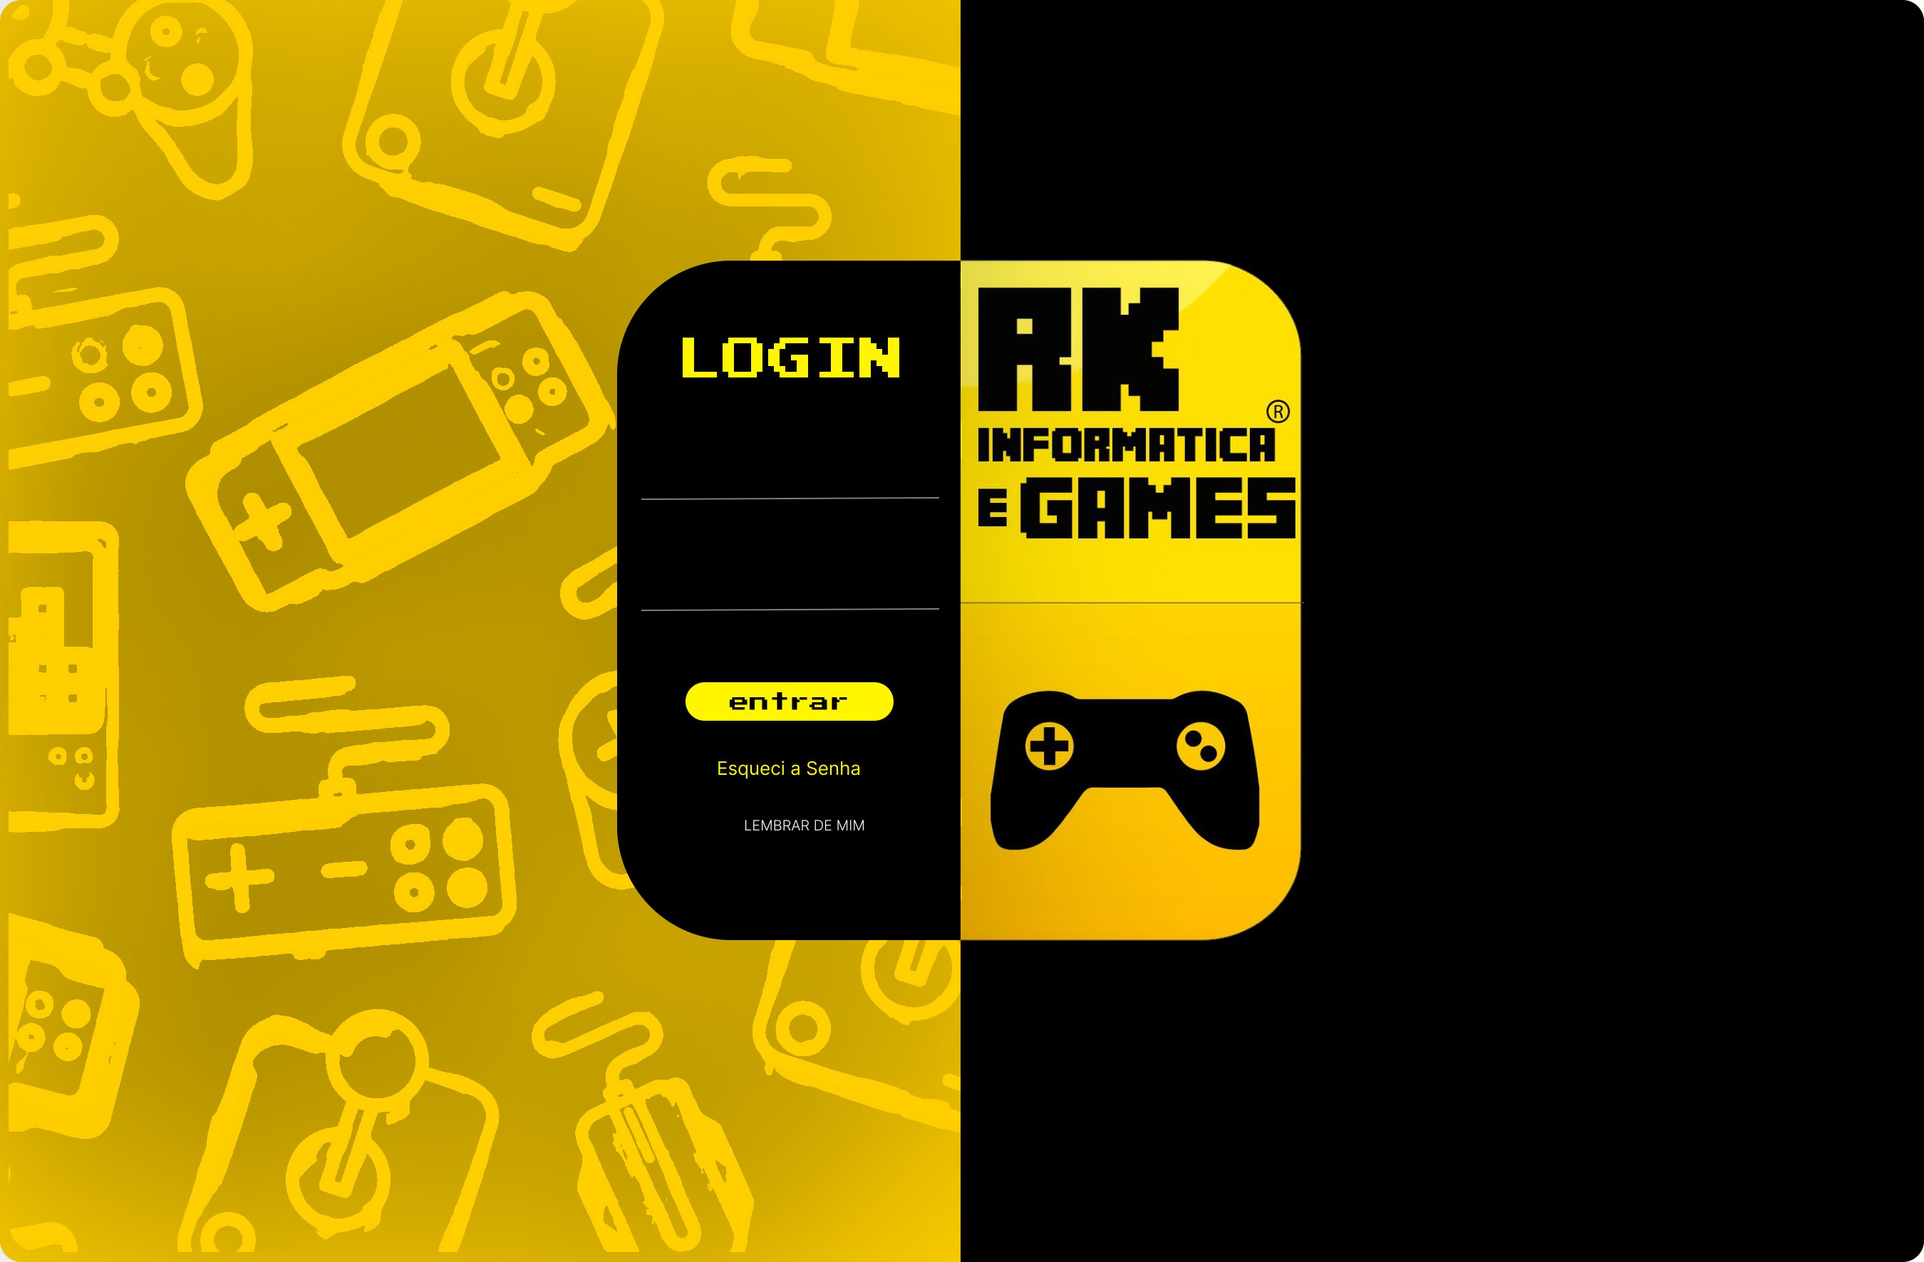
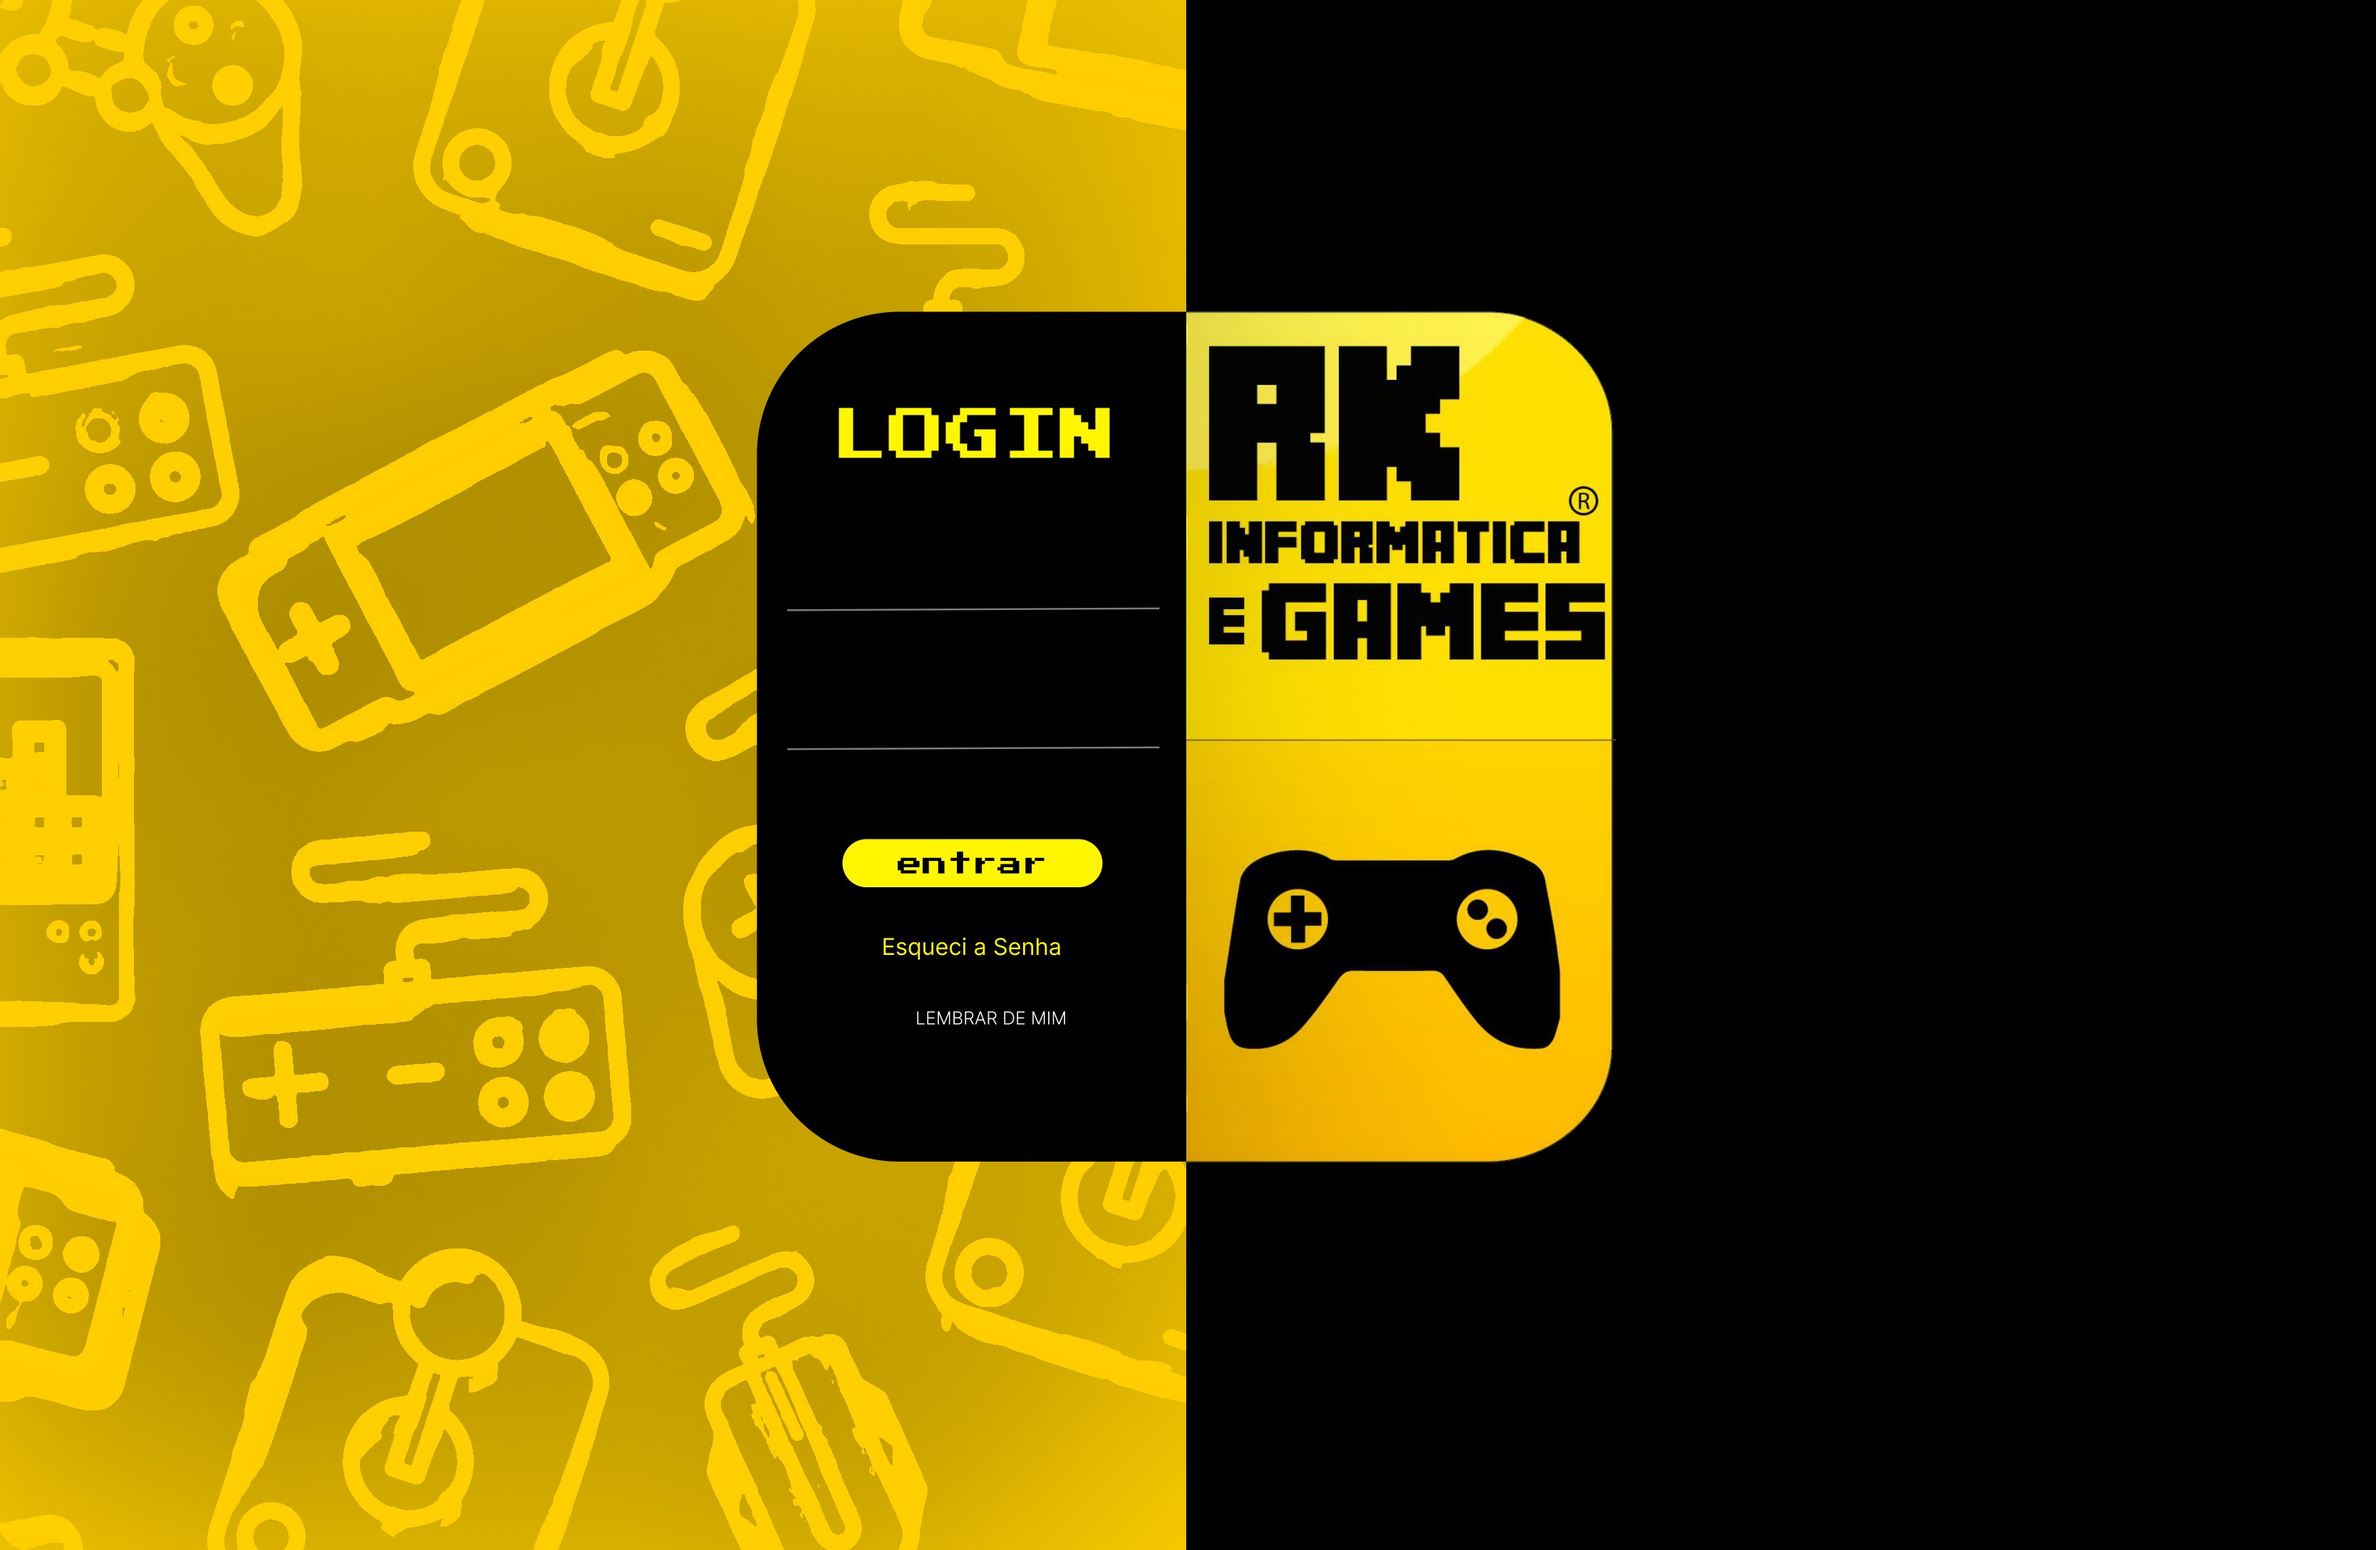
Login em tela cheia e layout proporcional ao Figma

diff --git a/src/pages/login/LoginPage.css b/src/pages/login/LoginPage.css
@@ -1,49 +1,36 @@
 /*
- * Coordenadas em pixels do quadro de login do Figma (1350 x 886).
- * --ox/--oy/--w definem o recorte visível; --u converte 1px do Figma para o tamanho atual da tela.
+ * A arte do Figma (padrão amarelo à esquerda, preto à direita) cobre a tela inteira.
+ * --u converte 1px do Figma para o tamanho atual: a arte é ampliada até cobrir a tela,
+ * mas limitada para que o cartão de login (≈ 500px do Figma) sempre caiba.
+ * Os elementos são posicionados a partir do centro da arte (675, 443 nas medidas do Figma).
  */
 .rk-login {
-  display: flex;
-  align-items: center;
-  justify-content: center;
-  min-height: 100vh;
-  padding: 16px;
-  background: var(--rk-white);
-}
-
-.rk-login__frame {
-  --ox: 0;
-  --oy: 0;
-  --w: 1350;
-  --h: 886;
-  --u: calc(100cqw / var(--w));
-  container-type: inline-size;
-  position: relative;
-  width: min(1350px, 100%, calc((100vh - 32px) * 1350 / 886));
-  aspect-ratio: 1350 / 886;
+  --u: min(max(100vw / 1334, 100vh / 870), 100vw / 520, 100vh / 520);
+  position: fixed;
+  inset: 0;
   overflow: hidden;
-  border-radius: 12px;
-  background: var(--rk-black);
-  box-shadow: 0 30px 90px rgba(0, 0, 0, 0.25);
+  /* Continuação das duas metades caso a arte não cubra tudo (celular em pé). */
+  background: linear-gradient(to right, #d6ad00 50%, var(--rk-black) 50%);
 }
 
-/* A arte fica num pseudo-elemento para que as unidades cqw se refiram ao próprio quadro. */
-.rk-login__frame::before {
+.rk-login::before {
   content: '';
   position: absolute;
   inset: 0;
-  background: url('../../assets/login-art.jpg') no-repeat;
-  background-size: calc(1350 * var(--u)) auto;
-  background-position: calc(var(--ox) * var(--u) * -1) calc(var(--oy) * var(--u) * -1);
+  background: url('../../assets/login-art.jpg') center / calc(1334 * var(--u)) auto no-repeat;
 }
 
-/* Elementos posicionados com as medidas do Figma. */
+.rk-login__frame {
+  position: absolute;
+  inset: 0;
+}
+
 .rk-login__frame > * {
   position: absolute;
 }
 
 .rk-login__input {
-  left: calc((449 - var(--ox)) * var(--u));
+  left: calc(50% + (449 - 675) * var(--u));
   width: calc(210 * var(--u));
   height: calc(18 * var(--u));
   padding: 0;
@@ -64,11 +51,11 @@
 }
 
 .rk-login__input--usuario {
-  top: calc((331 - var(--oy)) * var(--u));
+  top: calc(50% + (331 - 443) * var(--u));
 }
 
 .rk-login__input--senha {
-  top: calc((409 - var(--oy)) * var(--u));
+  top: calc(50% + (409 - 443) * var(--u));
 }
 
 /* Áreas clicáveis sobre o botão "entrar" e o link "Esqueci a Senha" da arte. */
@@ -79,8 +66,8 @@
 }
 
 .rk-login__entrar {
-  left: calc((481 - var(--ox)) * var(--u));
-  top: calc((479 - var(--oy)) * var(--u));
+  left: calc(50% + (481 - 675) * var(--u));
+  top: calc(50% + (479 - 443) * var(--u));
   width: calc(146 * var(--u));
   height: calc(27 * var(--u));
   border-radius: var(--rk-radius-pill);
@@ -95,8 +82,8 @@
 }
 
 .rk-login__esqueci {
-  left: calc((501 - var(--ox)) * var(--u));
-  top: calc((529 - var(--oy)) * var(--u));
+  left: calc(50% + (501 - 675) * var(--u));
+  top: calc(50% + (529 - 443) * var(--u));
   width: calc(105 * var(--u));
   height: calc(20 * var(--u));
 }
@@ -106,8 +93,8 @@
 }
 
 .rk-login__lembrar {
-  left: calc((499 - var(--ox)) * var(--u));
-  top: calc((571 - var(--oy)) * var(--u));
+  left: calc(50% + (499 - 675) * var(--u));
+  top: calc(50% + (571 - 443) * var(--u));
   display: flex;
   width: calc(110 * var(--u));
   height: calc(16 * var(--u));
@@ -129,29 +116,11 @@
 }
 
 .rk-login__mensagem {
-  left: calc((440 - var(--ox)) * var(--u));
-  top: calc((600 - var(--oy)) * var(--u));
+  left: calc(50% + (440 - 675) * var(--u));
+  top: calc(50% + (600 - 443) * var(--u));
   width: calc(228 * var(--u));
   color: #ff4d4d;
   font-size: calc(9 * var(--u));
   line-height: 1.3;
   text-align: center;
-}
-
-/* Celular: mostra só o cartão de login + logo, em tamanho legível. */
-@media (max-width: 700px) {
-  .rk-login {
-    padding: 0;
-    background: var(--rk-black);
-  }
-  .rk-login__frame {
-    --ox: 425;
-    --oy: 175;
-    --w: 500;
-    width: 100%;
-    max-width: 500px;
-    aspect-ratio: 500 / 495;
-    border-radius: 0;
-    box-shadow: none;
-  }
 }

diff --git a/src/hooks/useFigmaScale.ts b/src/hooks/useFigmaScale.ts
@@ -1,0 +1,33 @@
+import { useEffect } from 'react';
+
+// Tamanho do quadro das telas no Figma.
+const FIGMA_W = 1350;
+const FIGMA_H = 887;
+/** Abaixo desta largura vale o layout responsivo (sidebar só de ícones, tabelas com rolagem). */
+const DESKTOP_MIN = 1024;
+
+/**
+ * Em telas de computador, amplia ou reduz todo o sistema na mesma proporção do Figma,
+ * para que sidebar, títulos, tabelas e botões mantenham a mesma harmonia em qualquer monitor.
+ * O fator fica em --rk-zoom para que as alturas em vh possam ser compensadas no CSS.
+ */
+export function useFigmaScale() {
+  useEffect(() => {
+    const root = document.documentElement;
+
+    function aplicar() {
+      const { innerWidth: w, innerHeight: h } = window;
+      const zoom = w < DESKTOP_MIN ? 1 : Math.min(Math.max(Math.min(w / FIGMA_W, h / FIGMA_H), 0.8), 2);
+      root.style.zoom = String(zoom);
+      root.style.setProperty('--rk-zoom', String(zoom));
+    }
+
+    aplicar();
+    window.addEventListener('resize', aplicar);
+    return () => {
+      window.removeEventListener('resize', aplicar);
+      root.style.zoom = '';
+      root.style.removeProperty('--rk-zoom');
+    };
+  }, []);
+}

diff --git a/src/components/AppLayout.css b/src/components/AppLayout.css
@@ -1,5 +1,5 @@
 .rk-main {
-  min-height: 100vh;
+  min-height: calc(100vh / var(--rk-zoom, 1));
   margin-left: var(--rk-sidebar-width);
   background: var(--rk-bg);
 }
@@ -8,13 +8,13 @@
 .rk-page {
   display: flex;
   flex-direction: column;
-  min-height: 100vh;
+  min-height: calc(100vh / var(--rk-zoom, 1));
   padding: 56px 22px 58px 36px;
 }
 
 /* Telas de listagem: a tabela vai até 58px do rodapé e rola por dentro, como no Figma. */
 .rk-page--fixed {
-  height: 100vh;
+  height: calc(100vh / var(--rk-zoom, 1));
 }
 
 @media (max-width: 640px), (max-height: 560px) {
@@ -40,7 +40,7 @@
   margin-top: 67px;
 }
 
-@media (max-width: 1180px) {
+@media (max-width: 1023px) {
   .rk-page__table {
     margin-top: 32px;
   }

diff --git a/src/components/AppLayout.tsx b/src/components/AppLayout.tsx
@@ -2,12 +2,14 @@ import { Navigate, Outlet } from 'react-router-dom';
 import { api } from '../api/client';
 import { clearSessao } from '../auth/session';
 import { useSessao } from '../auth/useSessao';
+import { useFigmaScale } from '../hooks/useFigmaScale';
 import { Sidebar } from './Sidebar';
 import { ToastProvider } from './Toast';
 import './AppLayout.css';
 
 export function AppLayout() {
   const sessao = useSessao();
+  useFigmaScale();
   if (!sessao) return <Navigate to="/login" replace />;
 
   async function sair() {

diff --git a/src/components/StatCard.css b/src/components/StatCard.css
@@ -50,7 +50,7 @@
   color: var(--rk-chart-yellow);
 }
 
-@media (max-width: 1180px) {
+@media (max-width: 1023px) {
   .rk-stats {
     grid-template-columns: repeat(2, minmax(0, 1fr));
   }

diff --git a/src/components/PageHeader.css b/src/components/PageHeader.css
@@ -33,7 +33,7 @@
   justify-self: end;
 }
 
-@media (max-width: 1180px) {
+@media (max-width: 1023px) {
   .rk-page-header {
     grid-template-columns: auto 1fr;
     gap: 16px 24px;

diff --git a/src/pages/faturamento/FaturamentoPage.css b/src/pages/faturamento/FaturamentoPage.css
@@ -144,7 +144,7 @@
   flex: none;
 }
 
-@media (max-width: 1180px) {
+@media (max-width: 1023px) {
   .rk-faturamento__charts {
     grid-template-columns: minmax(0, 1fr);
   }
